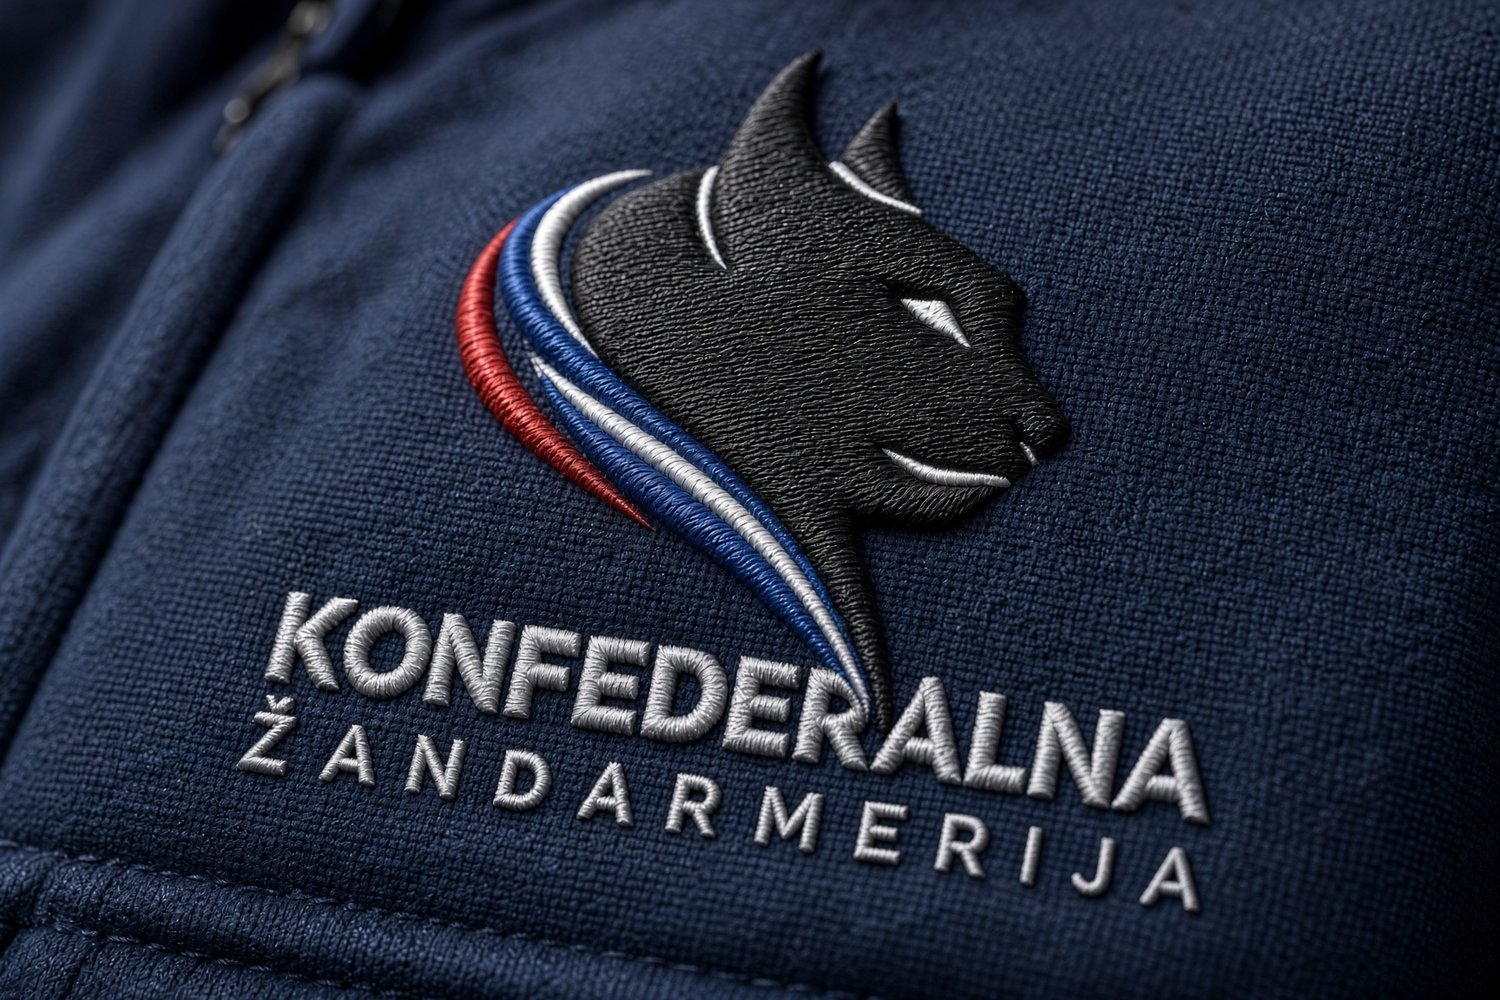
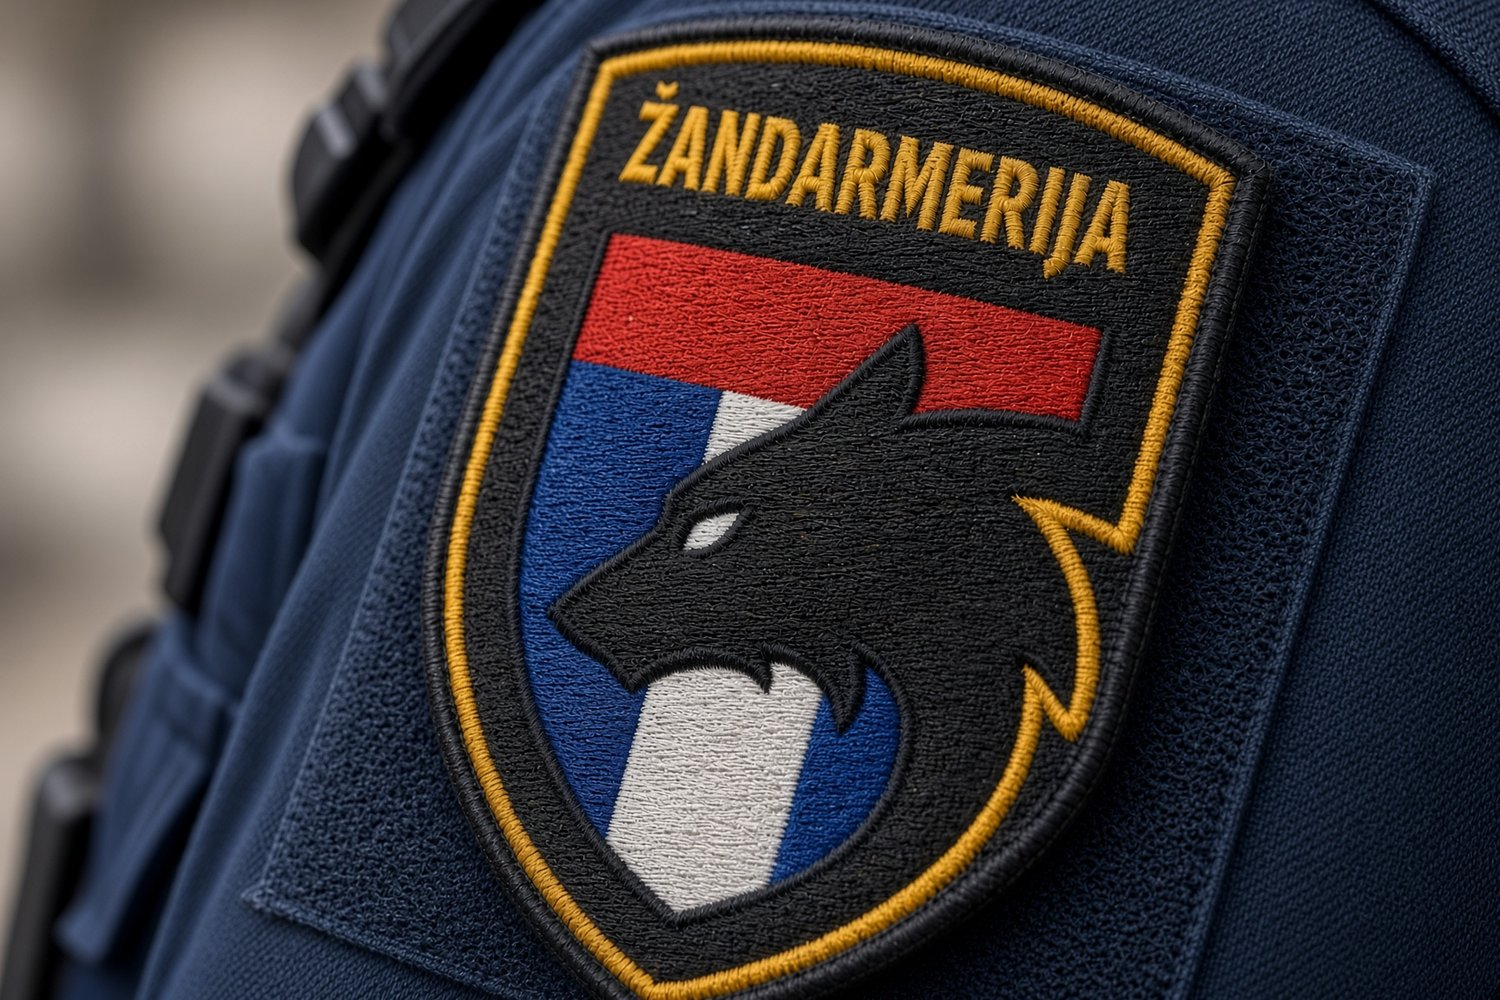
Symboles : le loup pour la Žandarmerija, le lion ailé pour les forces armées
ADR 2026-11-06-loup-zandarmerija-lion-forces-armees.md. Le loup remplace le lynx pour
la Konfederalna Žandarmerija ; le lynx n'est plus attribué. Les Konfederalne Oružane
Snage prennent un emblème institutionnel, le lion ailé en motif principal (art. 7 bis),
seule exception à la règle du lion en petit. Règles de dessin du loup : tête de
profil, gueule fermée ; ni loup hurlant ni croissant, ni montagne de Lika, aucune unité
nommée Vukovi. Portail : écusson au loup dans l'encart de la Žandarmerija.
Remplace la PR #72.

Claude-Session: https://claude.ai/code/session_01DQpxxYucBkL27VxzQqjjPt

diff --git a/docs/decisions/2026-11-06-loup-zandarmerija-lion-forces-armees.md b/docs/decisions/2026-11-06-loup-zandarmerija-lion-forces-armees.md
@@ -1,0 +1,74 @@
+# ADR 2026-11-06 — Le loup pour la Žandarmerija, le lion ailé pour les forces armées
+
+## Statut
+Accepté le 2026-11-06 : « laisse tomber le lynx, ce sera le loup pour la gendarmerie […]
+pour les forces armées ce sera plus institutionnel avec le lion ailé ».
+
+Modifie l'ADR 2026-10-22-emblemes-services-securite.md (décisions 1 et 2, emblème des forces
+armées). Les règles de dessin du loup (section 4) sont proposées par Claude.
+
+## Contexte
+- Le 22 octobre, le lynx des Balkans a été attribué à la Konfederalna Žandarmerija.
+- Le 28 octobre, le loup a été retenu pour les forces armées. La PR #72, qui l'inscrivait
+  au canon, n'a pas été fusionnée ; elle est remplacée par la présente décision.
+
+## Décisions
+
+### 1. Konfederalna Žandarmerija : le loup (*Canis lupus*)
+Il remplace le lynx.
+- **Natif de toute la région** : la population dinaro-balkanique, de la Slovénie à la
+  Bulgarie, est l'une des plus importantes d'Europe. Il ignore les frontières intérieures,
+  comme les missions de la Granična Straža.
+- **Il vit en meute** : un corps organisé en unités, présent sur tout le territoire.
+- **Il garde son territoire** : la Žandarmerija garde les frontières extérieures, les axes
+  et les infrastructures d'intérêt confédéral (art. 139 a, c et d).
+
+### 2. Le lynx n'est plus l'emblème d'aucun service
+La raison qui l'écartait du totem confédéral (son attribution à la Žandarmerija) tombe : il
+peut redevenir candidat. Le totem reste à choisir.
+
+### 3. Konfederalne Oružane Snage : le lion ailé d'or
+- L'emblème des forces armées est **institutionnel** : le lion ailé, emblème de la
+  Confédération (art. 7 bis), en est le motif principal.
+- C'est la suite logique de l'art. 7 bis : le drapeau d'État, qui porte le lion ailé, est
+  réservé aux institutions confédérales, aux forces armées et aux représentations à
+  l'étranger. L'armée est celle de la Confédération tout entière, pas un service parmi
+  d'autres.
+- **Exception à la règle commune** : le lion ailé n'apparaît qu'en petit sur les logos des
+  services, sauf pour les forces armées.
+- Le lion est celui du canon : lion rampant aux ailes d'aigle, d'or, sans filiation
+  vénitienne (ni livre, ni auréole).
+- Les pistes du 22 octobre (buzdovan et épée, épées croisées, couronne de chêne) peuvent
+  l'accompagner, en second plan.
+
+### 4. Le loup : associations existantes et règles de dessin
+Le loup porte déjà trois associations dans la région. Elles ne remettent pas le choix en
+cause, mais elles fixent ce que l'emblème ne doit pas montrer.
+
+| Association | Ce qu'elle est | Conséquence |
+|---|---|---|
+| **Lika (LK-20)** | loup gris sur la cime du Velebit, au drapeau et à l'écu de l'État ; devise *Vuk i Velebit* (ADR 2026-10-01-symboles-lika.md) | ni montagne ni Velebit ; Lika garde son loup |
+| **Guerres des années 1990** | surnom d'unités des deux côtés : la 9e brigade de la garde « Vukovi » de l'armée croate (Gospić) ; les « Vukovi s Vučjaka », unité paramilitaire serbe de Bosnie (Prnjavor) | aucune unité de la Žandarmerija ne s'appelle *Vukovi* ; jamais d'armoiries d'un peuple avec le loup |
+| **Loups gris** (*Bozkurtlar*, Ülkü Ocakları) | mouvement ultranationaliste turc, dissous en France en novembre 2020 ; emblème : loup hurlant, souvent dans un croissant ; salut de la main en tête de loup | ni loup hurlant, ni croissant, ni geste de la main ; la communauté turque est l'une des quatre communautés autonomes |
+
+Règles de dessin :
+- tête de loup de profil, gueule fermée, à l'horizontale, jamais levée vers le ciel ;
+- ni montagne, ni croissant, ni armoiries d'un peuple, ni geste de la main.
+
+### 5. Écusson et portail
+- Écusson retenu pour le portail :
+  - écu noir bordé d'or, « ŽANDARMERIJA » en haut ;
+  - drapeau civil tourné d'un quart de tour, bande rouge en haut ;
+  - tête de loup noire de profil, gueule fermée.
+- Il remplace la photo de l'écusson au lynx dans l'encart de la Žandarmerija (page
+  *Security and Defence*, `portail/images/security-zandarmerija.jpg`).
+
+## Reste ouvert
+- Composition de l'emblème des forces armées.
+- Animal totem de la Confédération.
+
+## Propagation
+- `docs/canon/couleurs-symboles.md` (table des emblèmes, règles communes).
+- ADR 2026-10-22-emblemes-services-securite.md (renvois).
+- `portail/images/security-zandarmerija.jpg`.
+- `CLAUDE.md`.

diff --git a/docs/canon/couleurs-symboles.md b/docs/canon/couleurs-symboles.md
@@ -61,26 +61,30 @@ sans, c'est le *civil flag* ».
 - Les palettes de drapeau peuvent signaler une autonomie identitaire
   (ex. palette kilim de Torlak vs pan-couleurs serbes)
 
-## Emblèmes des services de sécurité (ADR 2026-10-22-emblemes-services-securite.md)
+## Emblèmes des services de sécurité (ADR 2026-10-22-emblemes-services-securite.md et 2026-11-06-loup-zandarmerija-lion-forces-armees.md)
 | Service | Animal | Motif |
 |---|---|---|
-| Konfederalna Žandarmerija (art. 138 à 140) | **Lynx des Balkans** | aire transfrontalière, comme les missions de la Granična Straža ; espèce menacée que la Žandarmerija protège (art. 139 f) ; revendiqué par aucun peuple |
+| Konfederalna Žandarmerija (art. 138 à 140) | **Loup** (*Canis lupus*), à la place du lynx depuis le 2026-11-06 | natif de toute la région, il ignore les frontières intérieures, comme les missions de la Granična Straža ; vit en meute ; garde son territoire (frontières, axes, infrastructures, art. 139) |
 | Unité d'intervention spécialisée (art. 140 bis) | **Cobra** | tradition des unités d'intervention (EKO Cobra autrichienne, « Kobre » serbes) ; seul animal non régional du système, justifié par cette tradition |
 | Konfederalna Obavěštajna Agencija (art. 145 bis) | **Poskok** (vipère ammodyte, *Vipera ammodytes*) | natif de la Slovénie à la Bulgarie, serpent le plus venimeux d'Europe, présent dans l'imaginaire de toute la région ; vigilance et dissuasion |
 | Konfederalni Istražni Ured (art. 141 à 145) | **Balance et épée** (fléau porté par une épée verticale) | la justice qui pèse les preuves et qui agit ; l'épée distingue le Bureau des juridictions, dont la balance seule est le signe habituel |
-| Forces armées | à choisir | piste : buzdovan et épée |
+| Konfederalne Oružane Snage (art. 59 à 61 bis) | **Lion ailé d'or** (emblème institutionnel, pas d'animal propre) | l'armée est celle de la Confédération tout entière ; le drapeau d'État, qui porte le lion ailé, lui est réservé avec les institutions (art. 7 bis) ; buzdovan, épées croisées ou couronne de chêne possibles en second plan |
 
 Règles communes aux logos des services :
 - une seule famille : même forme (médaillon ou écu), même typographie, nom sud-slave
   en alphabet unifié, dominante prise dans la palette canonique ;
 - le lion ailé n'apparaît qu'en petit, comme signe de rattachement, jamais comme motif
-  principal d'un service ;
+  principal d'un service, sauf pour les forces armées, dont il est l'emblème ;
 - interdits : symboles propres à un peuple (aigle bicéphale, šahovnica, lys des
   Kotromanić, lion couronné bulgare, soleil de Vergina, Triglav), étoile à cinq
   branches, soleil à sept rais (réservé au sceau), motifs à sept éléments, œil (contraire
   à l'interdiction de surveillance politique, art. 137 et 145) ;
-- le lynx **n'est plus** candidat au totem animal de la Confédération : il est attribué
-  à la Žandarmerija. Le totem confédéral reste à choisir (workstream des symboles).
+- loup de la Žandarmerija : tête de profil, gueule fermée, à l'horizontale ; ni loup
+  hurlant, ni croissant, ni geste de la main (emblème des Loups gris turcs) ; ni montagne
+  ni Velebit (loup de Lika, LK-20) ; aucune unité nommée *Vukovi* (unités des guerres des
+  années 1990) ;
+- le lynx n'est plus l'emblème d'aucun service et peut redevenir candidat au totem
+  animal de la Confédération, qui reste à choisir (workstream des symboles).
 
 ## Lettre-emblème (workstream en attente)
 - Lettre unique style ß, héritage glagolitique / bosančica

diff --git a/docs/decisions/2026-10-22-emblemes-services-securite.md b/docs/decisions/2026-10-22-emblemes-services-securite.md
@@ -15,9 +15,11 @@ Ces emblèmes sont la base des futurs logos. Aucun logo n'est encore dessiné.
    - C'est une espèce menacée, et la Žandarmerija protège les espaces naturels d'intérêt
      confédéral (art. 139 f).
    - Aucun peuple ne le revendique dans sa tradition héraldique.
+   - **Remplacé le 2026-11-06 par le loup** (ADR 2026-11-06-loup-zandarmerija-lion-forces-armees.md).
 2. **Le lynx cesse d'être candidat au totem animal de la Confédération.** Il était
    pressenti dans le chantier des symboles, qui n'est pas encore ouvert. L'utilisateur
    l'attribue à la Žandarmerija seule, et le totem confédéral reste à choisir.
+   **Levé le 2026-11-06** : le lynx n'est plus attribué et peut redevenir candidat.
 3. **Unité d'intervention spécialisée (art. 140 bis) : le cobra.**
    - Il s'inscrit dans la tradition des unités d'intervention : EKO Cobra, unité
      antiterroriste de la police fédérale autrichienne, et les « Kobre », unité spéciale de
@@ -45,6 +47,7 @@ Elles sont consignées dans `docs/canon/couleurs-symboles.md`.
 
 ## Reste ouvert
 - Emblème des forces armées. Pistes : buzdovan et épée, ou épées croisées sous une
-  couronne de chêne avec le lion ailé en petit.
+  couronne de chêne avec le lion ailé en petit. **Réglé le 2026-11-06 : le lion ailé,
+  motif principal** (ADR 2026-11-06-loup-zandarmerija-lion-forces-armees.md).
 - Animal totem de la Confédération.
 - Dessin des logos.

diff --git a/CLAUDE.md b/CLAUDE.md
@@ -118,8 +118,11 @@ infrastructure numérique). Haute exigence de cohérence interne.
 - Plateforme participative (Decidim, e-Konfederacija) → docs/plateforme/ ; lancement sur les
   réseaux (X d'abord, puis Instagram) → docs/communication/
 - Symboles confédéraux (animal totem à choisir, lettre-emblème glagolitique/bosančica) → en
-  attente ; le lynx est l'emblème de la Žandarmerija, plus un candidat au totem (ADR
-  2026-10-22-emblemes-services-securite.md)
+  attente ; emblèmes des services (ADR 2026-10-22-emblemes-services-securite.md et
+  2026-11-06-loup-zandarmerija-lion-forces-armees.md) : loup pour la Žandarmerija (tête de
+  profil, gueule fermée ; ni loup hurlant ni croissant, ni montagne de Lika ; le lynx est
+  abandonné), cobra pour l'unité d'intervention, poskok pour la KOA, balance et épée pour le
+  KIU, lion ailé pour les forces armées (seule exception au lion « en petit »)
 - Cartes GADM → scripts/raccord_contours.py (raccorde les contours sources : doublons,
   recouvrements, trous ; villes-États = trou laissé par leurs voisins) puis
   scripts/gen_geo.py (couverture unique coverage_clean + coverage_simplify → geo.json v2
